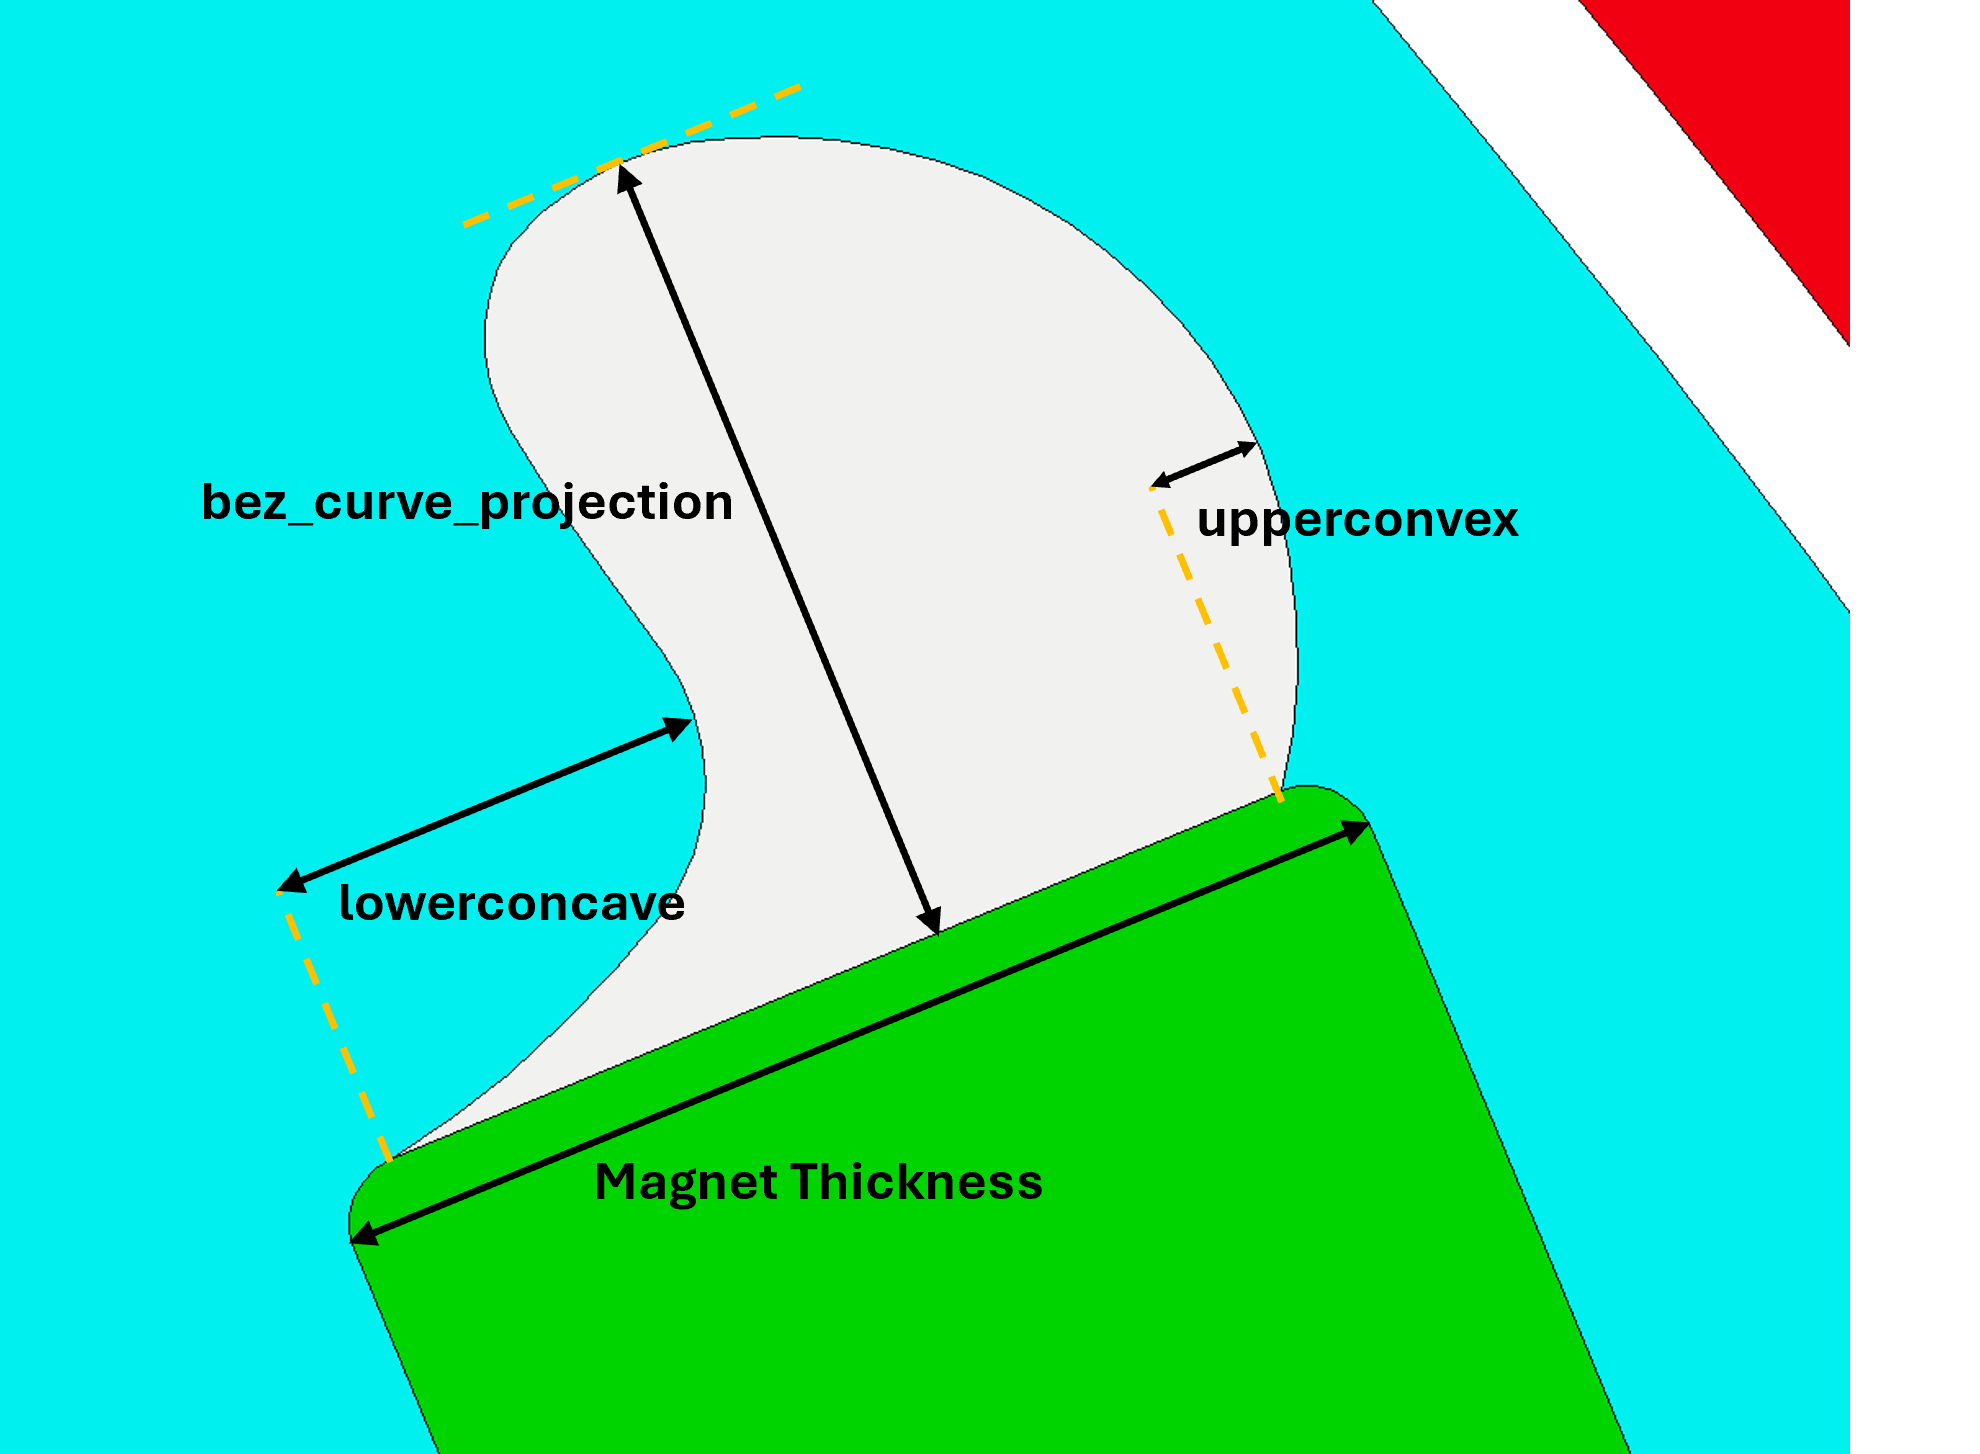
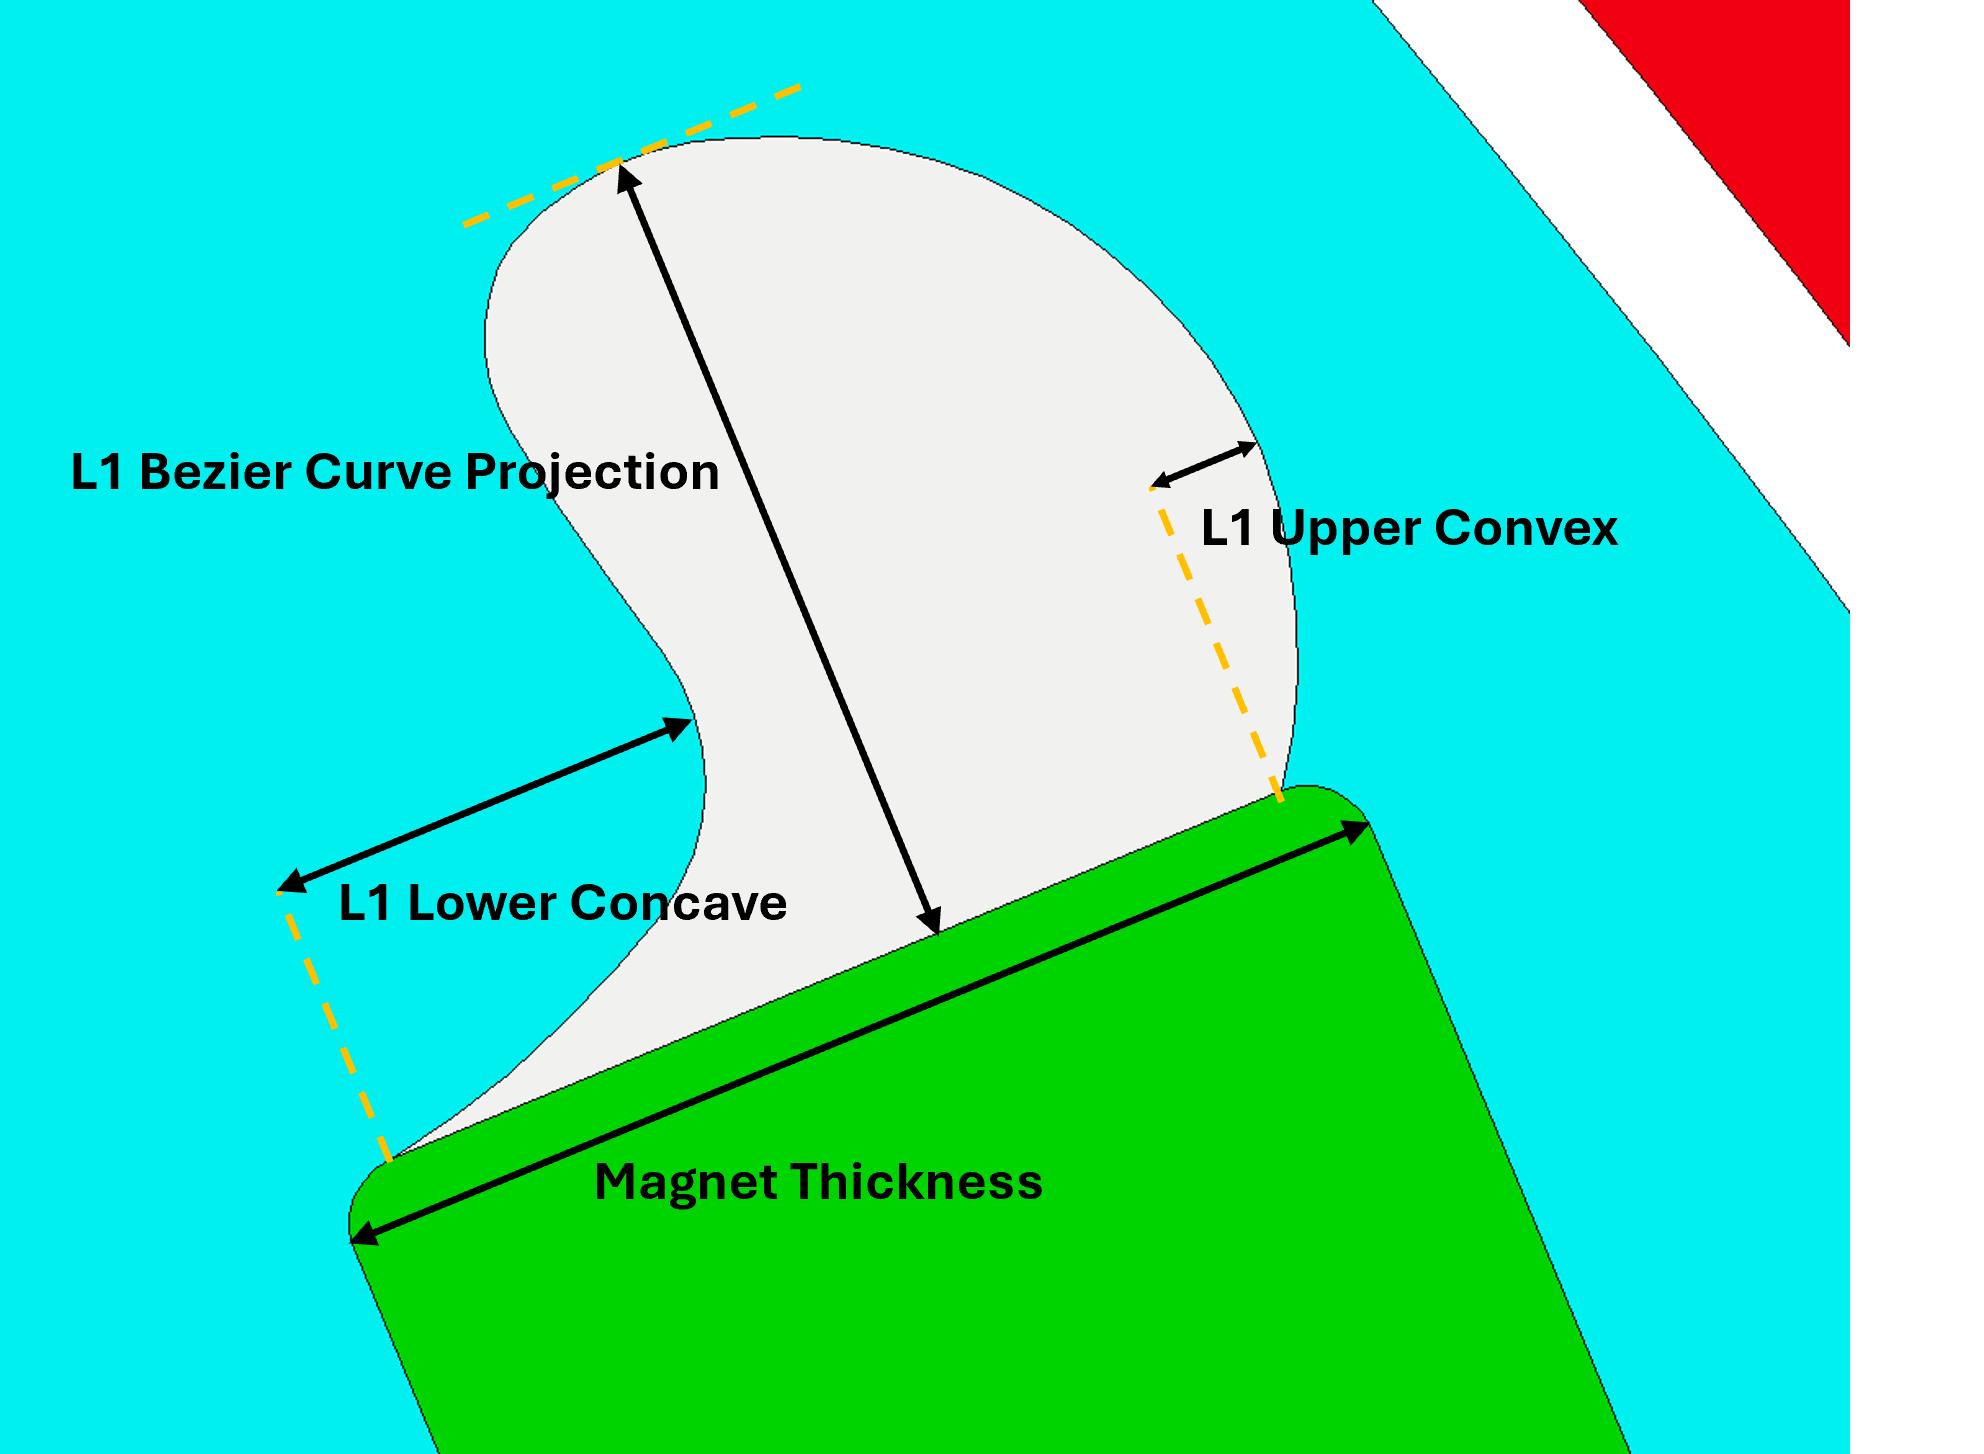
Changed adaptive parameter names

diff --git a/examples/adaptive_library/BezierCurveRotorPockets.py b/examples/adaptive_library/BezierCurveRotorPockets.py
@@ -110,24 +110,24 @@ def set_default_parameter(parameter_name, default_value):
 
 
 # %%
-# Use the ``set_default_parameter()`` function to set the required ``bez_curve_projection``,
-# ``upperconvex`` and ``lowerconcave`` parameters if undefined.
-set_default_parameter("bez_curve_projection", 6)
-set_default_parameter("upperconvex", 0.5)
-set_default_parameter("lowerconcave", -0.3)
+# Use the ``set_default_parameter()`` function to set the required ``L1 Bezier Curve Projection``,
+# ``L1 Upper Convex`` and ``L1 Lower Concave`` parameters if undefined.
+set_default_parameter("L1 Bezier Curve Projection", 6)
+set_default_parameter("L1 Upper Convex", 0.5)
+set_default_parameter("L1 Lower Concave", -0.3)
 
 # %%
 # The adaptive parameters are used to define the curved rotor pocket geometry with a Bezier
 # function. The parameters relate to the rotor pocket shape as follows:
 #
-# * ``bez_curve_projection``: Defines the rotor pocket extension beyond the magnet edge in the
+# * ``L1 Bezier Curve Projection``: Defines the rotor pocket extension beyond the magnet edge in the
 #   direction of the magnet length in mm.
 #
-# * ``upperconvex``: Defines the concave rotor pocket extension beyond the magnet edge in the
+# * ``L1 Upper Convex``: Defines the concave rotor pocket extension beyond the magnet edge in the
 #   direction of the magnet thickness. This parameter is dependent on the magnet thickness (a
 #   Standard Template parameter).
 #
-# * ``lowerconcave``: Defines the convex rotor pocket curvature in the direction of the magnet
+# * ``L1 Lower Concave``: Defines the convex rotor pocket curvature in the direction of the magnet
 #   thickness. This parameter is dependent on the magnet thickness (a Standard Template parameter).
 #
 # .. image:: ../../images/Adaptive_Geometry_Bezier_e4a_2.png
@@ -146,9 +146,9 @@ pole_angle = 360 / (poles * 2)
 
 # %%
 # Get the adaptive parameters specified in Motor-CAD, and their values
-totalprojection = mc.get_adaptive_parameter_value("bez_curve_projection")
-upperconvex = mc.get_adaptive_parameter_value("upperconvex")
-lowerconcave = mc.get_adaptive_parameter_value("lowerconcave")
+totalprojection = mc.get_adaptive_parameter_value("L1 Bezier Curve Projection")
+upperconvex = mc.get_adaptive_parameter_value("L1 Upper Convex")
+lowerconcave = mc.get_adaptive_parameter_value("L1 Lower Concave")
 
 # %%
 # Get the Rotor Pocket regions
